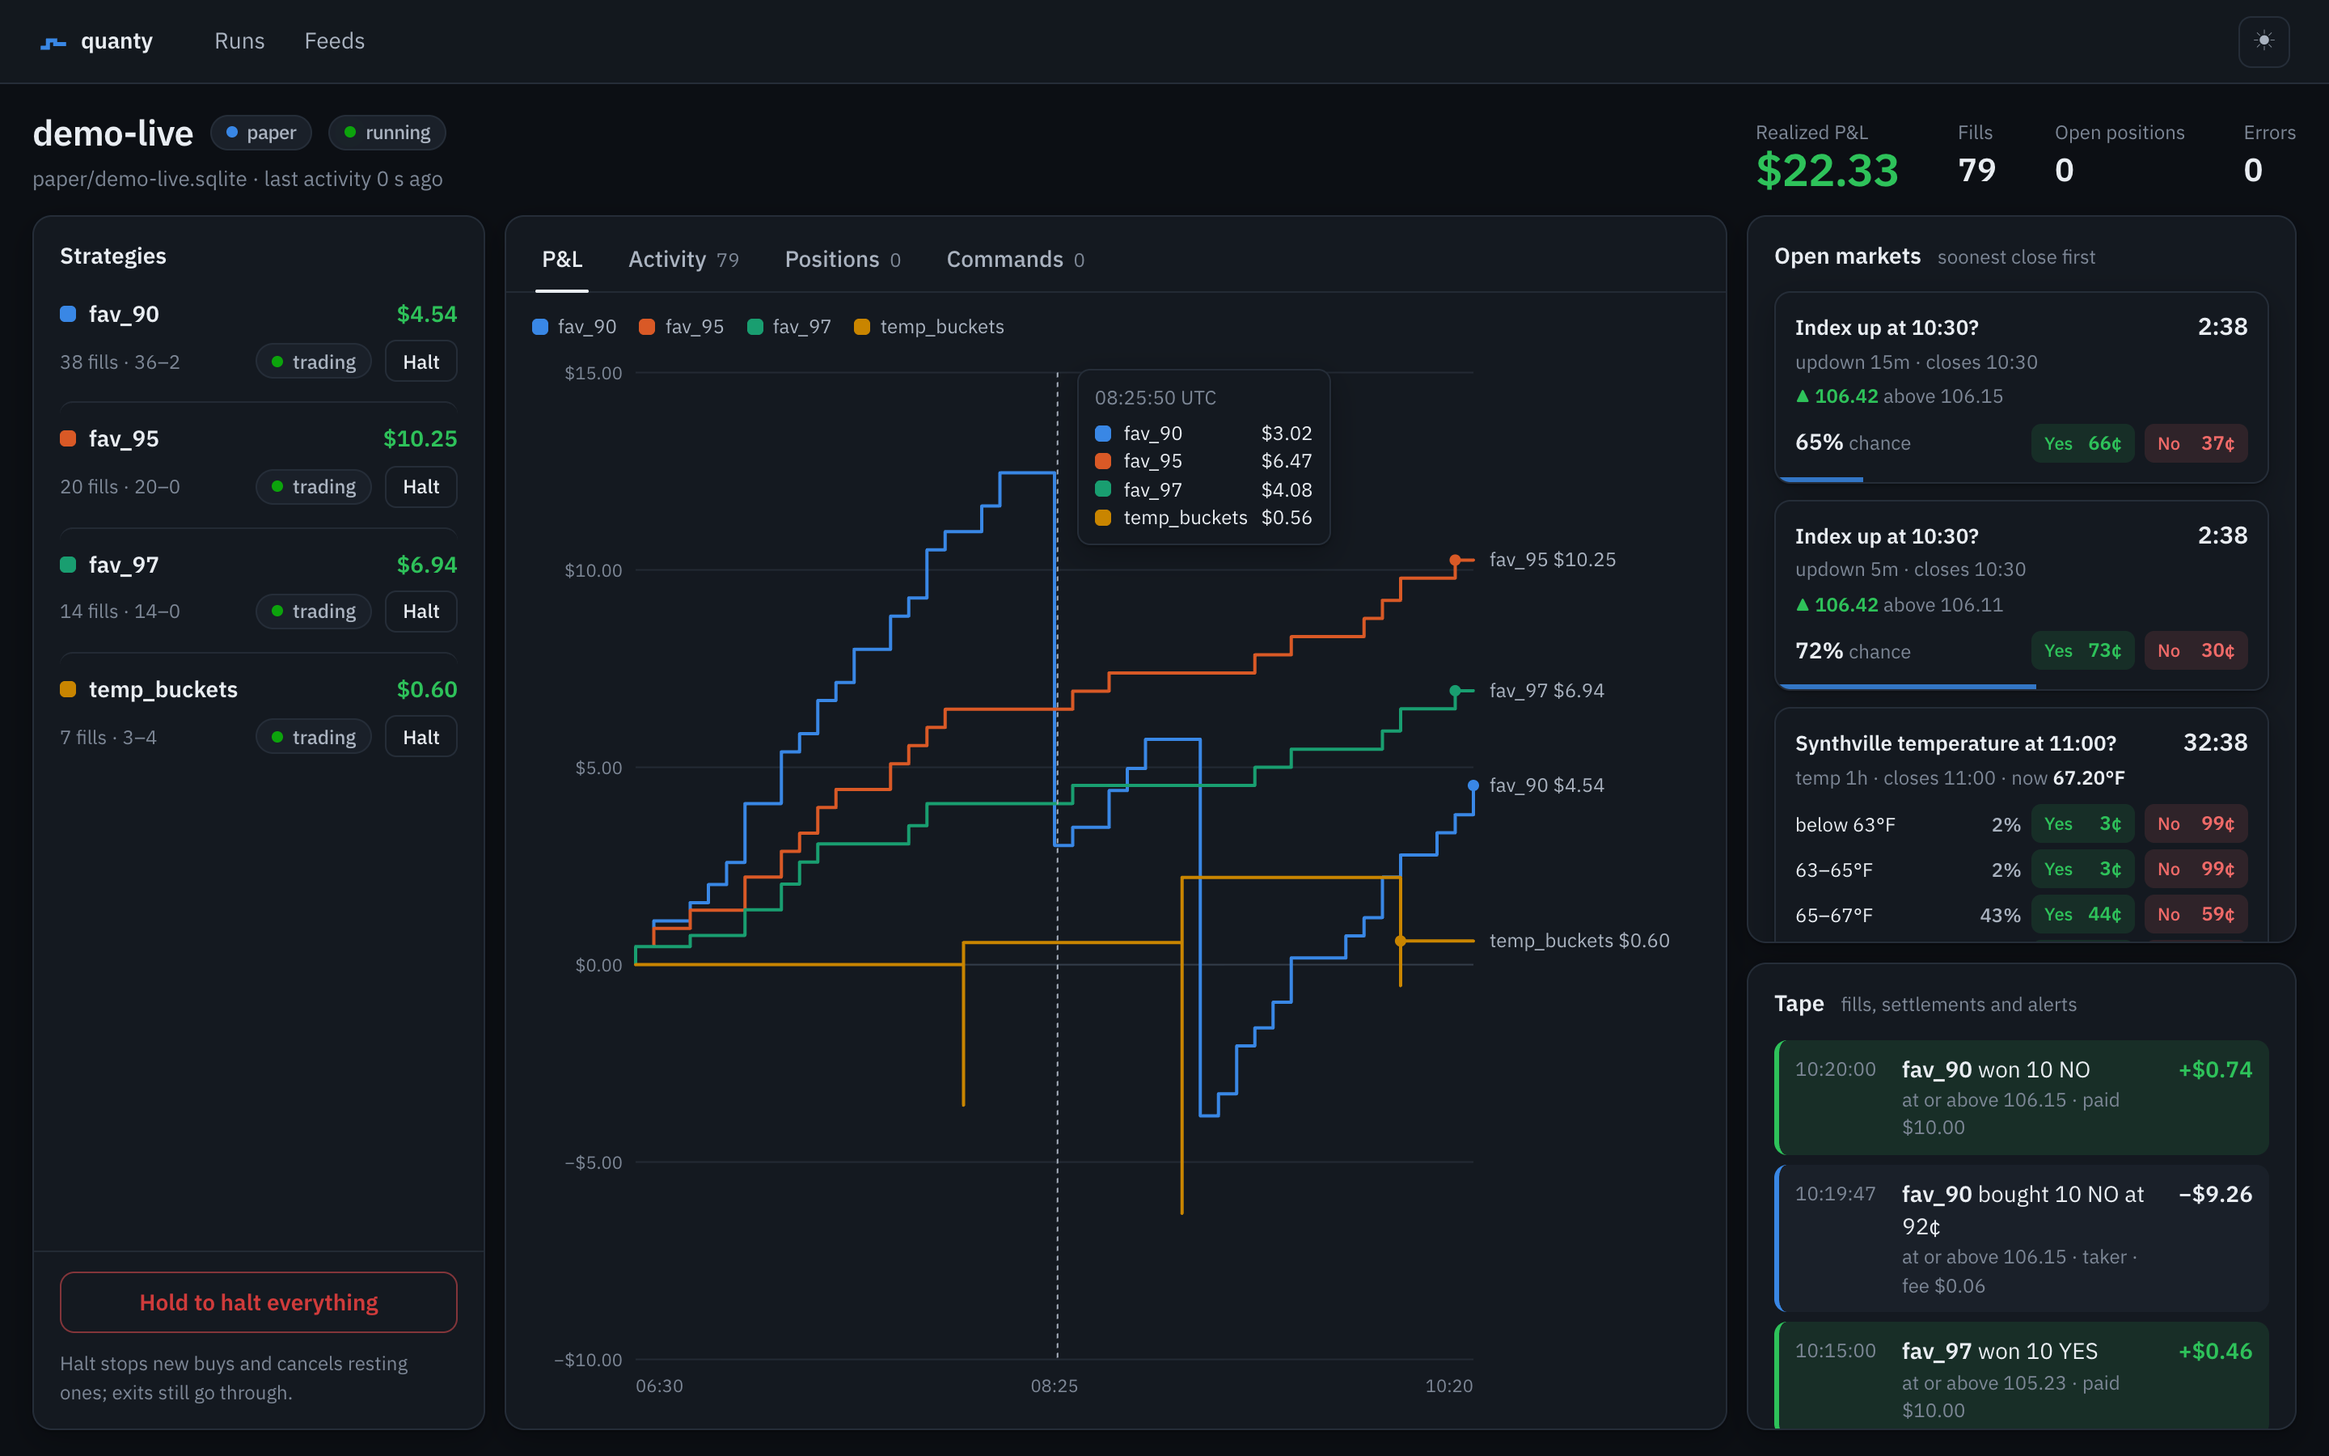
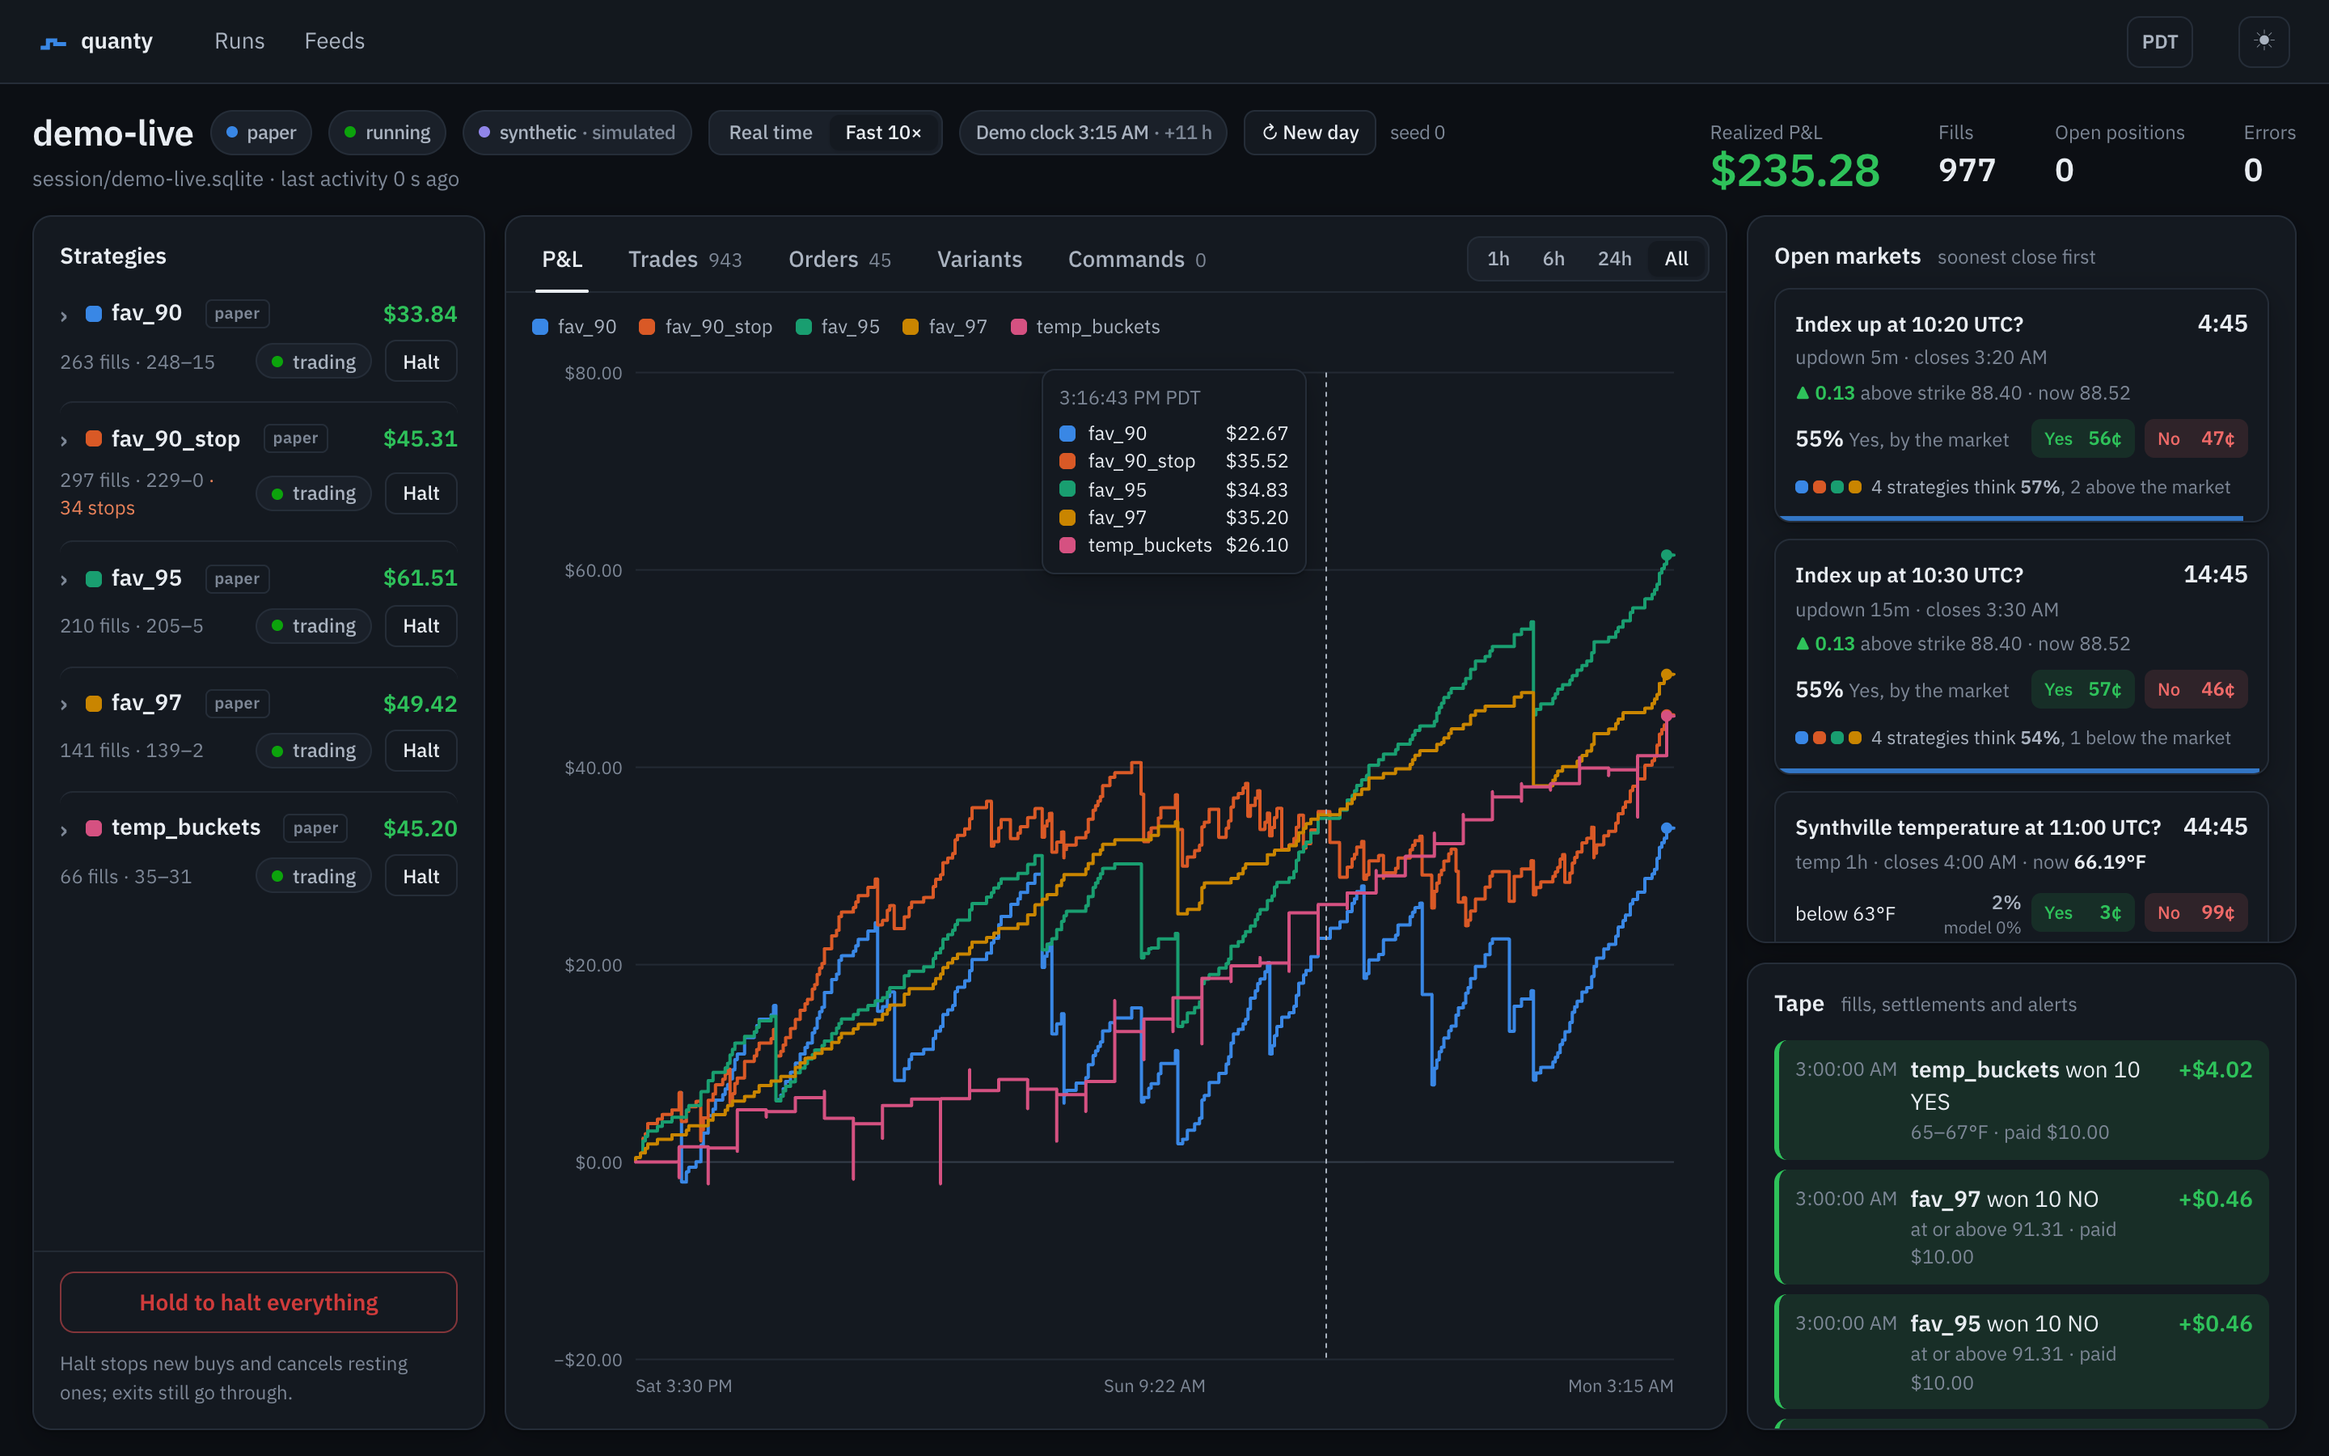
Docs catch up: README (paper-to-live workflow, the dashboard as it is, quanty deploy in Try it, Deploying in the docs list, every command in the table, new screenshots without account balances), the generated project's README and AGENTS.md (grids, reload, promote, pull, the Variants tab), help texts

diff --git a/src/quanty/init.py b/src/quanty/init.py
@@ -257,7 +257,8 @@ placed) and live. Run everything through `uv run quanty …`; the first run sets
   strategies from folders in the user's `~/.config/quanty/config.toml`; leave those alone and don't
   reuse their names.
 - `experiments/main.toml`: which strategies run (`[[instances]]`), their params, their broker
-  (`kind = "sim"`, `"shadow"` or `"live"`) and risk limits.
+  (`kind = "sim"`, `"shadow"` or `"live"`) and risk limits. A `grid = {{ param = [values] }}` in an
+  entry makes one instance per combination (`id = "name_{{param}}"` names them).
 - `feeds.toml`: the venues and series to connect to. `.env`: API keys.
 
 ## Rules
@@ -265,6 +266,8 @@ placed) and live. Run everything through `uv run quanty …`; the first run sets
 - **Never run `quanty live`, never set `kind = "live"` or `QUANTY_MODE=live`, and never raise
   `max_qty`, `max_notional` or `[limits]`, unless the user explicitly asks.** These place or permit
   real orders with real money.
+- Don't move a strategy toward live (`quanty promote --to live`, the dashboard's Go live) unless the
+  user asks; `--to shadow` is safe (orders checked by the venue, never placed).
 - **Never read, print or edit `.env`** (API keys). `uv run quanty doctor` checks it without showing it.
 - A strategy only reads events and acts through `ctx`: no network calls, files, clocks
   (`time.time()`) or randomness of its own, so backtests replay exactly what live would do. State on
@@ -406,9 +409,15 @@ A quanty project: your strategy, its configuration, and what's needed to deploy 
 3. **Backtest** on what you recorded: `uv run quanty backtest experiments/main.toml --data data`.
 4. **Paper trade** live markets with simulated fills, with the dashboard alongside:
    `uv run quanty paper experiments/main.toml --feeds feeds.toml --data data --ui`.
-5. **Shadow, then live**: set `kind = "shadow"` in `experiments/main.toml` to have every order checked
-   by the venue; for real orders, `kind = "live"` with `max_qty` and `max_notional`, and
-   `uv run quanty live experiments/main.toml --feeds feeds.toml --data data --arm`.
+   Many variants: a `grid` in an `[[instances]]` entry makes one per combination
+   (`grid = {{ min_conf = [0.9, 0.95] }}`); after editing the file, `uv run quanty reload` starts and
+   retires them without a restart. The dashboard's **Variants** tab ranks them for promotion.
+5. **Shadow, then live**: `uv run quanty promote <id> --to shadow` has every order checked by the
+   venue; `--to live` adds a live broker (asking for `max_qty` and `max_notional`) and keeps a paper
+   twin beside it, for the dashboard's **Compare**. Then
+   `uv run quanty live experiments/main.toml --feeds feeds.toml --data data --arm`. In a session
+   started that way, **Go live** on the dashboard (or `quanty promote --now`) switches strategies
+   without a restart.
 
 ## Deploy
 
@@ -422,6 +431,10 @@ and starts the trader (paper by default; `QUANTY_MODE=live` in `.env` trades for
 dashboard, both restarted on failure and on reboot. Run it again after every change. The dashboard
 listens on the server's 127.0.0.1:8765: `ssh -N -L 8765:127.0.0.1:8765 root@your-server`, then open
 http://127.0.0.1:8765.
+
+This folder stays the source of truth. Dashboard changes on the server (param edits, going live or
+back to paper) are kept there with the run, and `quanty deploy` first writes them into these files;
+`uv run quanty pull root@your-server` does that on its own. Review and commit them.
 
 On Fly.io, `fly.toml` runs the same project on one machine with a volume for `data/`. Managed container
 services that wipe the disk on redeploy (App Platform, ECS/Fargate, Cloud Run, Render) don't fit:

diff --git a/src/quanty/cli.py b/src/quanty/cli.py
@@ -252,7 +252,9 @@ def paper(
 ) -> None:
     """Paper trade: run an experiment's strategies on live feeds with simulated fills (no orders).
 
-    Brokers with kind = "shadow" also check every order with the venue (nothing is placed).
+    Brokers with kind = "shadow" also check every order with the venue (nothing is placed). Records
+    into the experiment's run (<data>/session/<name>.sqlite), continuing it: positions are restored,
+    and warmup_s in the experiment replays recent recordings first.
     """
     with _dashboard(data, ui_host, ui_port) if ui else contextlib.nullcontext():
         _session("paper", path, feeds, data, ledger, duration, window, armed=False)
@@ -273,7 +275,11 @@ def live(
     ui_host: UiHostOpt = "127.0.0.1",
     ui_port: UiPortOpt = 8765,
 ) -> None:
-    """Trade for real: kind = "live" brokers place orders on the venues. Needs --arm."""
+    """Trade for real: kind = "live" brokers place orders on the venues. Needs --arm.
+
+    Instances on sim or shadow brokers paper trade in the same session, and a live broker no instance
+    uses yet lets you switch them on while it runs (the dashboard's Go live, quanty promote --now).
+    """
     if not arm:
         raise _fail(ValueError("quanty live places real orders: pass --arm to confirm"))
     with _dashboard(data, ui_host, ui_port) if ui else contextlib.nullcontext():
@@ -360,7 +366,8 @@ def promote(
     ] = False,
 ) -> None:
     """Move an instance to another kind of broker (paper → shadow → live, or back) by editing its
-    experiment file. Carries its dashboard edits along. Starts nothing: run paper or live after."""
+    experiment file, keeping a paper twin beside it when it goes live. Carries its dashboard edits
+    along. Starts nothing: restart, reload, or --now to switch it in the running session."""
     from quanty import promote as pm
 
     if now:
@@ -588,7 +595,8 @@ def ui(
     port: Annotated[int, typer.Option(help="Port")] = 8765,
     refresh: Annotated[int, typer.Option(help="Seconds between page refreshes")] = 5,
 ) -> None:
-    """Dashboard of runs (ledgers under <data>/{live,paper,backtest}) and feed health.
+    """Dashboard of runs (ledgers under <data>/session for paper and live sessions, <data>/backtest)
+    and feed health.
 
     With QUANTY_UI_PASSWORD set (`quanty password`), it asks for a password first."""
     import uvicorn

diff --git a/README.md b/README.md
@@ -18,7 +18,7 @@ One strategy file runs unchanged in four modes. Only the broker behind it change
 
 <picture>
   <source media="(prefers-color-scheme: dark)" srcset="docs/images/dashboard-dark.png">
-  <img alt="The quanty dashboard during a paper session: strategies with halt controls on the left, cumulative realized P&L with a hover tooltip and the event feed on the right" src="docs/images/dashboard-light.png">
+  <img alt="The quanty dashboard during a paper session: strategies with paper badges and halt controls on the left, cumulative realized P&L per strategy with a hover tooltip in the middle, open markets with the market's chance and the strategies' own estimates, and the event feed on the right" src="docs/images/dashboard-light.png">
 </picture>
 
 ## Try it
@@ -36,7 +36,7 @@ files to deploy it:
 ```sh
 uv run quanty init my-quanty          # a few questions; --yes for the defaults
 cd my-quanty && uv run quanty list    # works there too: the first run sets everything up
-docker compose up -d --build          # on a server: trader + dashboard, restarted on failure
+uv run quanty deploy root@your-server # to a server with Docker: trader + dashboard, restarted on failure
 ```
 
 [Getting started](docs/getting-started.md) goes step by step from experiments to recording real data,
@@ -56,13 +56,23 @@ paper trading, shadow trading and live trading; [Deploying](docs/deploying.md) c
   conservative.
 - **Risk in the core.** Order size, position, open risk, risk per correlated group, daily loss,
   halts: checked before any broker sees an order.
+- **From paper to live, one strategy at a time.** Run many variants on paper (a `grid` in the
+  experiment makes one per combination), rank them by what they likely make per trade at worst,
+  and switch the ones you pick to real money while the session runs: from the dashboard or
+  `quanty promote --now`. Each keeps a paper twin beside it, so live fills can be compared with
+  simulated ones on the same markets; every order records whether it was real money, so the two are
+  never added together. `quanty reload` starts and retires variants without a restart, and
+  restarts restore what each strategy holds.
 - **Live trading that stops rather than guesses.** Required size caps, `--arm`, self-disabling on
   repeated rejections or unknown order outcomes, an order journal that cleans up after a crash
   without touching anything else on the account. A fake exchange with fault injection for tests.
-- **A dashboard.** P&L over time per strategy, every trade and order of a run (filtered, paged,
-  downloadable as CSV), notable events and feed health, each platform's connection and your account balances, with controls for running sessions:
-  halt, resume, disarm, kill switch, and editing a strategy's params (its size, say) while it runs.
-  Optional password login for reaching it over HTTPS.
+- **A dashboard.** P&L over time per strategy, real money and simulated apart; every trade and
+  order of a run (filtered, paged, downloadable as CSV); open markets with each strategy's own
+  estimate beside the market's; stop losses, the variant ranking and live-vs-twin comparison; feed
+  health, each platform's connection and your balances. Controls for running sessions: halt,
+  resume, disarm, kill switch, go live or back to paper, reload, and editing a strategy's params
+  while it runs (saved to the file, or brought home from a server with `quanty pull`). Optional
+  password login for reaching it over HTTPS.
 - **Private strategies.** Strategies load from folders in your own config, so your edge never has
   to live in this repo.
 
@@ -71,7 +81,8 @@ paper trading, shadow trading and live trading; [Deploying](docs/deploying.md) c
 - [Getting started](docs/getting-started.md): install to live, step by step
 - [Writing strategies](docs/strategies.md): hooks, context, orders, signals, testing
 - [Architecture](docs/architecture.md): how the pieces fit, and why one file runs everywhere
-- [Live trading](docs/live-trading.md): the safety layers, and what to do before `--arm`
+- [Live trading](docs/live-trading.md): the safety layers, restarts, and what to do before `--arm`
+- [Deploying](docs/deploying.md): servers (DigitalOcean, AWS, Fly.io), the dashboard over HTTPS, editing on a server
 
 ## Commands
 
@@ -85,9 +96,10 @@ paper trading, shadow trading and live trading; [Deploying](docs/deploying.md) c
 | `quanty promote` | move an instance between paper, shadow and live in its experiment file (`--now`: while running) |
 | `quanty pull`, `changes` | bring a server's dashboard changes into your experiment files; list what a server holds |
 | `quanty reload` | have a running session pick up its experiment file: new variants start, removed ones retire |
-| `quanty init`, `deploy` | create a project; copy it to a Docker server, check it there and start it |
+| `quanty init`, `deploy` | create a project; copy it to a Docker server (bringing its dashboard changes home first), check it there and start it |
 | `quanty doctor` | check a project before trading: config, keys, clock, venues, leftovers (read-only) |
 | `quanty list`, `params` | strategies quanty can find, and their parameters |
+| `quanty password` | set the dashboard's login (a salted hash in `.env`) |
 
 ## Layout
 

diff --git a/AGENTS.md b/AGENTS.md
@@ -27,9 +27,10 @@ change to `web/`.
 | `src/quanty/brokers/` | `sim` (simulated fills), `shadow` (orders checked by the venue, not placed), `live` |
 | `src/quanty/venues/` | Kalshi and Polymarket US: market data, order APIs, signing; `fake.py` is a fake exchange |
 | `src/quanty/feeds/` | recording, replay, feed health |
-| `src/quanty/control.py` | dashboard commands to running sessions (halt, arm, edit params, …) |
+| `src/quanty/control.py` | dashboard commands to running sessions (halt, arm, edit params, switch live, reload, …) |
+| `src/quanty/promote.py`, `pull.py` | experiment-file edits: moving an instance between brokers (with its paper twin); bringing a server's dashboard changes home |
 | `src/quanty/ui/` | FastAPI back end (`api.py`, `queries.py`, `auth.py`); `web/` is its React front end |
-| `src/quanty/cli.py` | the `quanty` command; `init.py`, `deploy.py`, `doctor.py` behind its subcommands |
+| `src/quanty/cli.py` | the `quanty` command; `init.py`, `deploy.py`, `doctor.py` behind its subcommands; `engine_tools.py` (paper twins in a running session) |
 | `src/quanty/strategies/` | example strategies; `strategies/_template.py` is the template |
 | `src/quanty/db/migrations/` | Alembic migrations for the ledger |
 

diff --git a/docs/architecture.md b/docs/architecture.md
@@ -104,8 +104,8 @@ last push. The React app in `web/` (built into `ui/dist`) renders it: open marke
 their close, the P&L chart, a tape of fills, settlements and alerts, and toasts for anything that
 needs attention. Every database is opened read-only. Controls go through `control.py`: the
 dashboard writes commands to `data/control.sqlite`; each running session polls for its own, applies
-them (halt, resume, disarm, arm, kill, and param changes, which it also saves per run so a restart
-keeps them), records the outcome and publishes a heartbeat with its state,
+them (halt, resume, disarm, arm, kill; param changes and switching an instance live or back to
+paper, both saved per run so a restart keeps them; reloading the experiment file), records the outcome and publishes a heartbeat with its state,
 including its open markets and the event clock (so countdowns stay right in sped-up demos).
 
 ## Determinism
